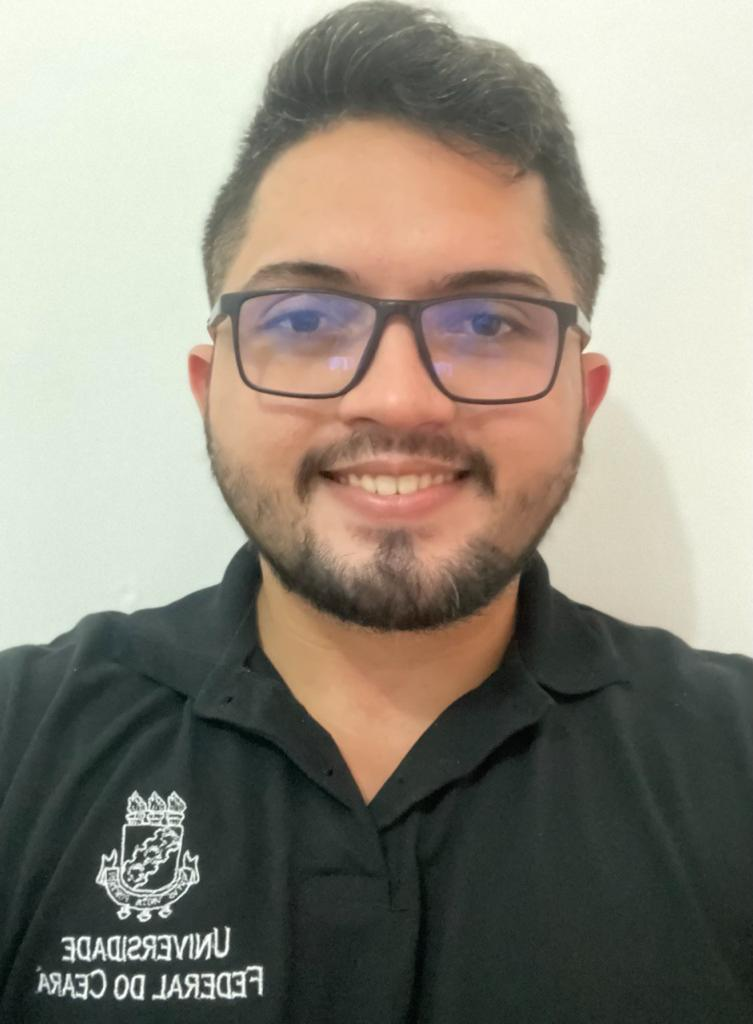
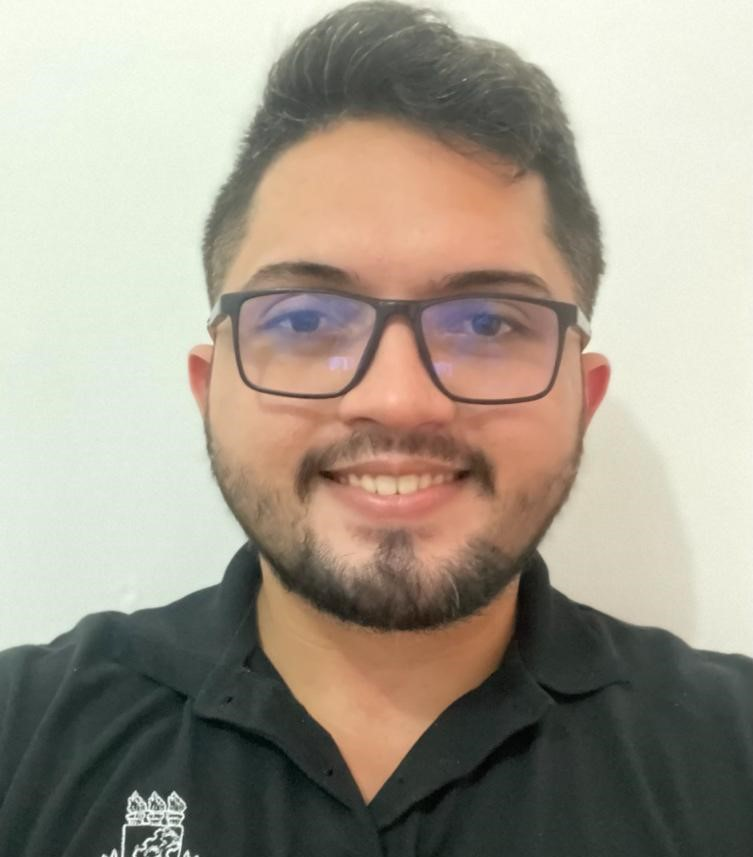
limpando código e acrescentando icone ao title

diff --git a/index.html b/index.html
@@ -1,7 +1,7 @@
 <!DOCTYPE html>
 <html lang="pt-br">
   <head>
-    <link rel="icon" type="image/png" href="https://diretoaoponto-tech.com.br/icon-target.png"/>
+    <link rel="icon" type="image/png" href="https://cdn-icons-png.flaticon.com/512/1803/1803671.png"/>
     <link rel="preconnect" href="https://fonts.googleapis.com" />
     <link rel="preconnect" href="https://fonts.gstatic.com" crossorigin />
     <link
@@ -17,7 +17,7 @@
   <body>
     <div id="container">
       <div id="profile">
-        <img src="./assets/Aglailson2.jpeg" alt="Foto de Aglailson Santiago" />
+        <img src="./assets/Aglailson.jpeg" alt="Foto de Aglailson Santiago" />
         <p>Aglailson Santiago</p>
       </div>
 

diff --git a/script.js b/script.js
@@ -42,9 +42,9 @@ function toggleMode() {
   // substituir a imagem
   if (html.classList.contains("light")) {
     // se tiver light mode, adicionar a imagem light
-    img.setAttribute("src", "./assets/Aglailson2.jpeg")
+    img.setAttribute("src", "./assets/Aglailson.jpeg")
   } else {
     // set tiver sem light mode, manter a imagem normal
-    img.setAttribute("src", "./assets/Aglailson2.jpeg")
+    img.setAttribute("src", "./assets/Aglailson.jpeg")
   }
 }

diff --git a/style.css b/style.css
@@ -21,7 +21,7 @@
   --surface-color: rgba(0, 0, 0, 0.05);
   --surface-color-hover: rgba(0, 0, 0, 0.02);
   --highlight-color: rgba(0, 0, 0, 0.1);
-  --switch-bg-url: url(../assets/sun.svg);
+  --switch-bg-url: url(./assets/sun.svg);
 }
 
 body {
